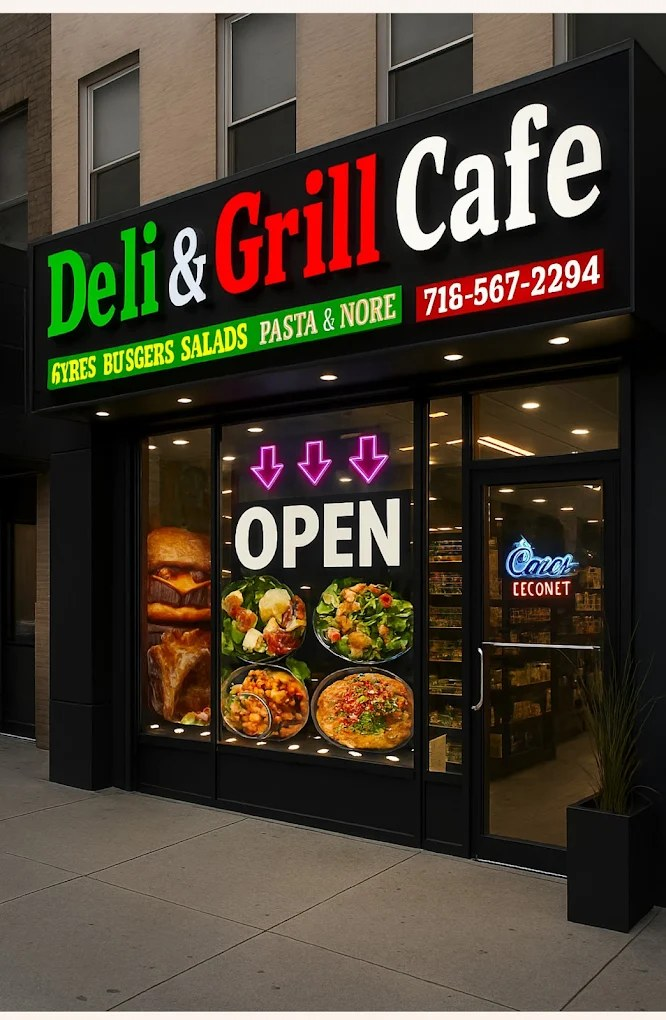
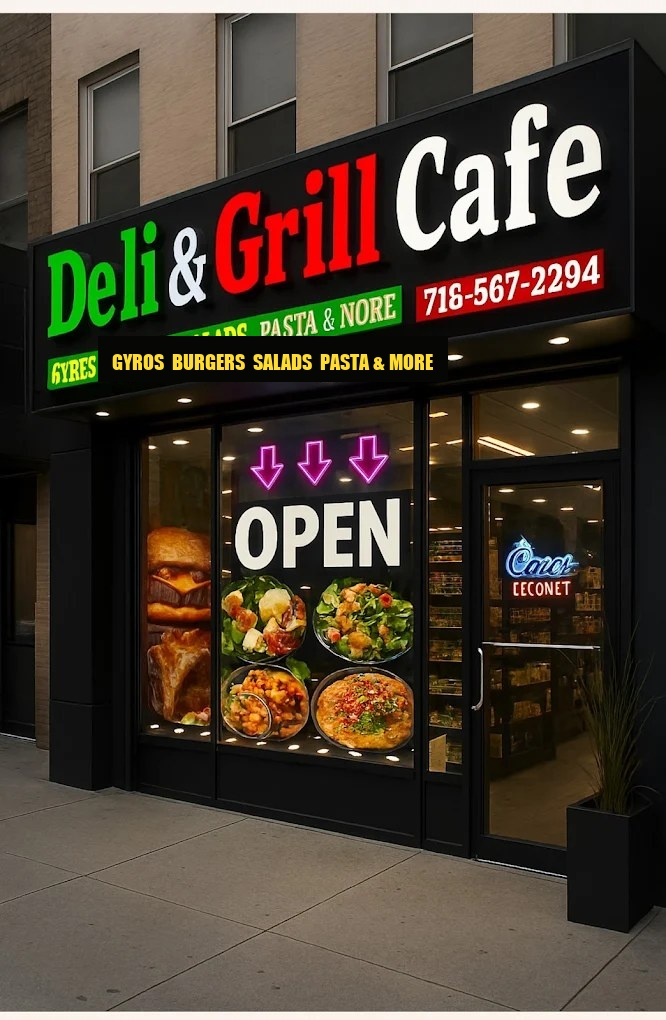
first commit

Changed region(s): [[0.1502, 0.3039, 0.6907, 0.3951]]

diff --git a/index.html b/index.html
@@ -197,7 +197,7 @@ footer{background:#080808;border-top:1px solid var(--line);color:var(--muted);fo
   .brand>span{display:none}
 }
 </style>
-<script type="application/ld+json">{"@context":"https://schema.org","@type":"Restaurant","name":"Elegante Deli & Grill","telephone":"+1-718-567-2294","email":"info@EleganteDeliandGrill.com","servesCuisine":["Deli","Sandwiches","Breakfast"],"openingHours":"Mo-Su 00:00-23:59","priceRange":"$","currenciesAccepted":"USD","paymentAccepted":"Cash, Credit Card, Debit Card, EBT","address":{"@type":"PostalAddress","streetAddress":"5304 4th Ave","addressLocality":"Brooklyn","addressRegion":"NY","postalCode":"11220","addressCountry":"US"}}</script>
+<script type="application/ld+json">{"@context":"https://schema.org","@type":"Restaurant","name":"Elegante Deli & Grill","telephone":"+1-718-567-2294","email":"info@elegantedeli.com","servesCuisine":["Deli","Sandwiches","Breakfast"],"openingHours":"Mo-Su 00:00-23:59","priceRange":"$","currenciesAccepted":"USD","paymentAccepted":"Cash, Credit Card, Debit Card, EBT","address":{"@type":"PostalAddress","streetAddress":"5304 4th Ave","addressLocality":"Brooklyn","addressRegion":"NY","postalCode":"11220","addressCountry":"US"}}</script>
 </head>
 <body>
 
@@ -406,7 +406,7 @@ footer{background:#080808;border-top:1px solid var(--line);color:var(--muted);fo
           <dl>
             <div><dt>Address</dt><dd>5304 4th Ave<br>Brooklyn, NY 11220<br><span style="color:var(--muted);font-size:16px">Sunset Park</span></dd></div>
             <div><dt>Phone</dt><dd><a href="tel:+17185672294">718-567-2294</a></dd></div>
-            <div><dt>Email</dt><dd><a href="mailto:info@EleganteDeliandGrill.com">info@EleganteDeliandGrill.com</a></dd></div>
+            <div><dt>Email</dt><dd><a href="mailto:info@elegantedeli.com">info@elegantedeli.com</a></dd></div>
             <div><dt>Hours</dt><dd>Open 24 hours, 7 days a week</dd></div>
             <div><dt>Payment</dt><dd>Cash, card &amp; EBT <span style="color:var(--muted);font-size:16px">(no hot food on EBT)</span></dd></div>
           </dl>
@@ -464,7 +464,7 @@ footer{background:#080808;border-top:1px solid var(--line);color:var(--muted);fo
     <div class="fcol">
       <h3>Contact</h3>
       <a href="tel:+17185672294">718-567-2294</a>
-      <a href="mailto:info@EleganteDeliandGrill.com">info@EleganteDeliandGrill.com</a>
+      <a href="mailto:info@elegantedeli.com">info@elegantedeli.com</a>
       <a href="https://www.google.com/maps/search/?api=1&amp;query=Elegante+Deli+%26+Grill+5304+4th+Ave+Brooklyn+NY+11220">Get directions</a>
       <a href="https://share.google/he5r39R3quIoqx8kv">Review us on Google</a>
     </div>
@@ -496,13 +496,13 @@ footer{background:#080808;border-top:1px solid var(--line);color:var(--muted);fo
             <p>Our kitchen handles eggs, milk, wheat, soy, fish, sesame, peanuts and tree nuts. We can’t guarantee any item is free of allergens. Please tell us about allergies before you order.</p>
             <h4>Governing law &amp; disputes</h4>
             <p>These terms, and any purchase from us, are governed by the laws of the State of New York and the laws, rules and regulations of the City of New York, including the NYC Administrative Code and NYC Department of Consumer and Worker Protection rules, without regard to conflict-of-law principles. Any dispute will be handled in the state or city courts located in Kings County (Brooklyn), New York, unless the law requires otherwise. Nothing in these terms limits any right you have under New York State or New York City consumer protection law.</p>
-            <p>If any part of these terms is found unenforceable, the rest stays in effect. Questions: call 718-567-2294 or email <a href="mailto:info@EleganteDeliandGrill.com">info@EleganteDeliandGrill.com</a>.</p>
+            <p>If any part of these terms is found unenforceable, the rest stays in effect. Questions: call 718-567-2294 or email <a href="mailto:info@elegantedeli.com">info@elegantedeli.com</a>.</p>
           </div>
       </article>
       <article class="pol-item" id="refunds" data-title="Refund &amp; Cancellation Policy" hidden>
         <div class="pol">
             <h4>Wrong or unsatisfactory orders</h4>
-            <p>If your order is wrong, missing an item, or not prepared properly, tell us within 24 hours of pickup — in person, by phone at 718-567-2294, or by email at info@EleganteDeliandGrill.com. We’ll remake the item or refund it to your original payment method, whichever you prefer.</p>
+            <p>If your order is wrong, missing an item, or not prepared properly, tell us within 24 hours of pickup — in person, by phone at 718-567-2294, or by email at info@elegantedeli.com. We’ll remake the item or refund it to your original payment method, whichever you prefer.</p>
             <h4>Cancellations</h4>
             <p>You can cancel for a full refund until we start preparing your order. Because food is made fresh to order, orders that are already being prepared or are ready for pickup can’t be cancelled. Orders not picked up within 2 hours of the ready time are not refunded.</p>
             <h4>Packaged goods &amp; deli by the pound</h4>
@@ -526,7 +526,7 @@ footer{background:#080808;border-top:1px solid var(--line);color:var(--muted);fo
             <h4>How we use it</h4>
             <p>Only to prepare and fulfill your order, contact you about it, handle refunds, and keep the records the law requires. We do not sell or rent your personal information.</p>
             <h4>Your choices</h4>
-            <p>To see, correct, or delete the information we hold about you, email info@EleganteDeliandGrill.com or call 718-567-2294.</p>
+            <p>To see, correct, or delete the information we hold about you, email info@elegantedeli.com or call 718-567-2294.</p>
           </div>
       </article>
       <article class="pol-item" id="security" data-title="Payment Security &amp; Restrictions" hidden>
@@ -538,7 +538,7 @@ footer{background:#080808;border-top:1px solid var(--line);color:var(--muted);fo
           </div>
       </article>
   </div>
-  <div class="pol-foot">Questions? Call <a href="tel:+17185672294">718-567-2294</a> or email <a href="mailto:info@EleganteDeliandGrill.com">info@EleganteDeliandGrill.com</a> · 5304 4th Ave, Brooklyn, NY 11220</div>
+  <div class="pol-foot">Questions? Call <a href="tel:+17185672294">718-567-2294</a> or email <a href="mailto:info@elegantedeli.com">info@elegantedeli.com</a> · 5304 4th Ave, Brooklyn, NY 11220</div>
 </dialog>
 
 
